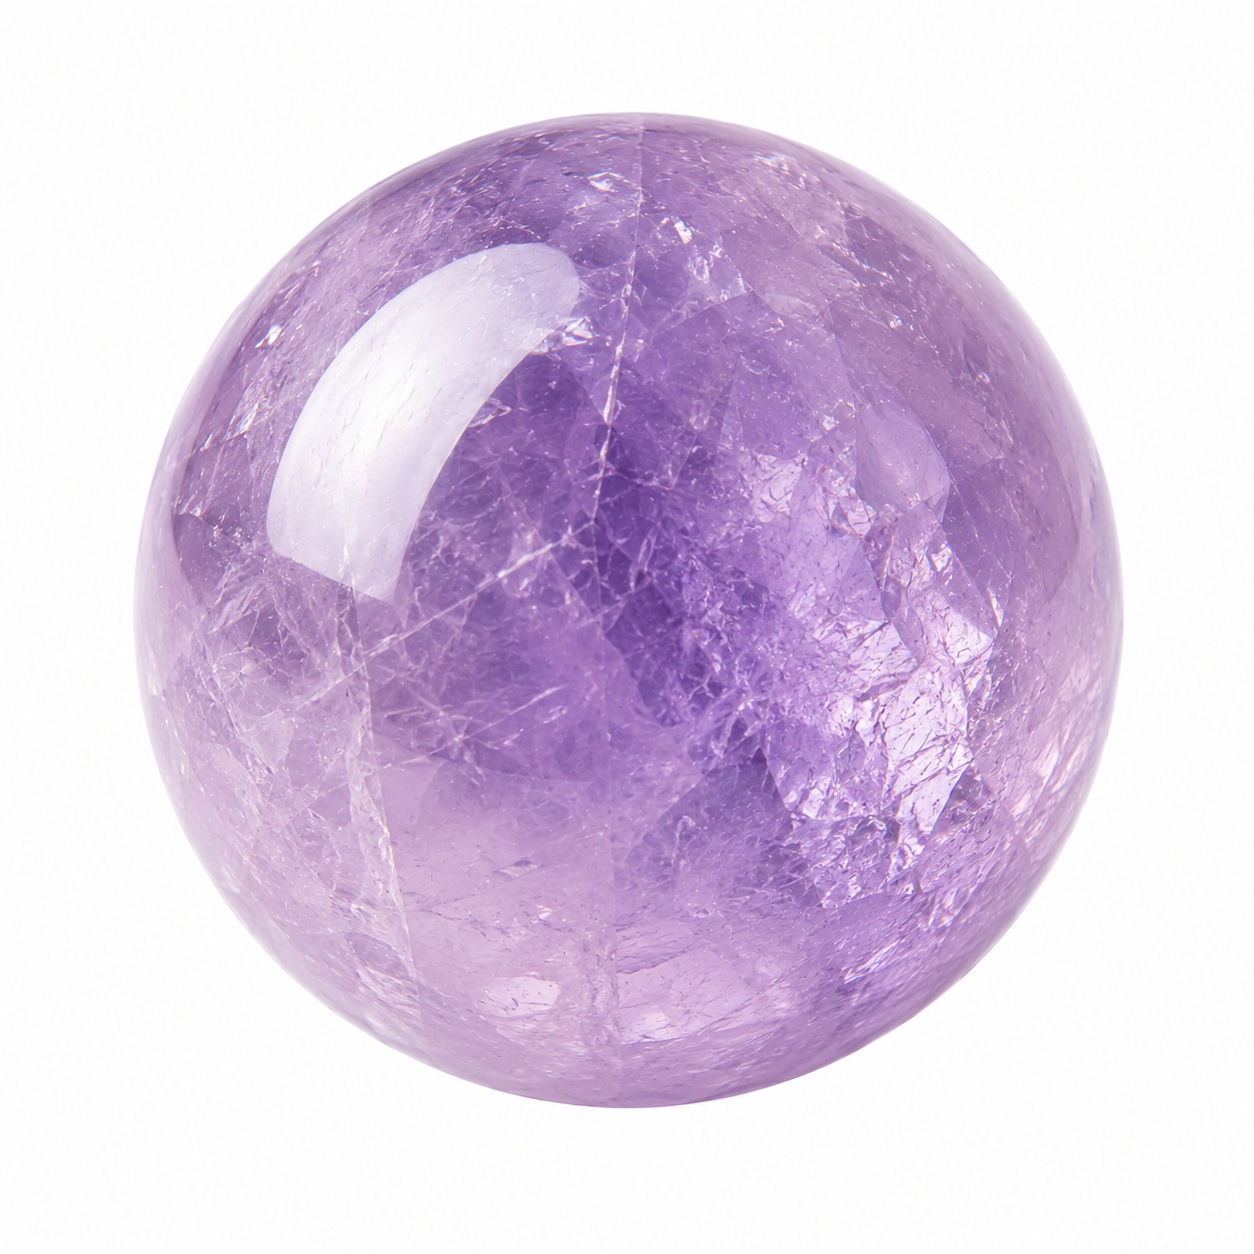
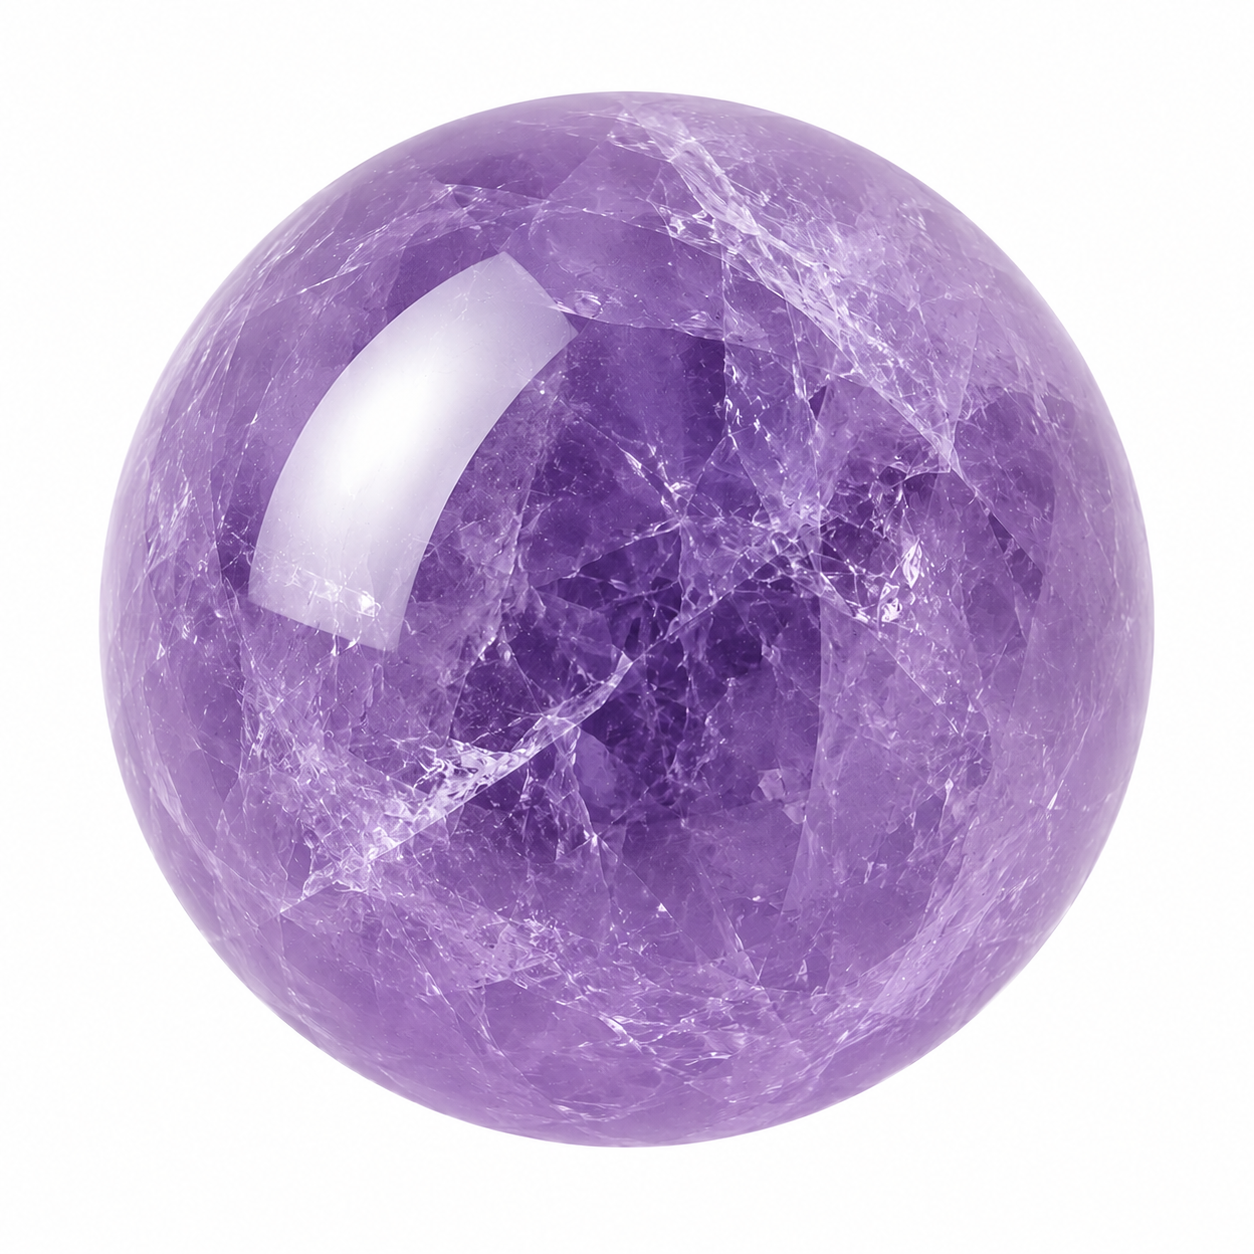
fix: promote approved UAT Step 2 Step 3 catalog parity

diff --git a/index.css b/index.css
@@ -71,24 +71,52 @@
   );
 }
 
-/* Production mixed-size promotion: UI-only overrides. */
-#stepView3.step-view { animation:none; opacity:1; transform:none; filter:none; isolation:auto; }
-#stepView3 .canvas-card { position:sticky; top:0; z-index:20; isolation:auto; pointer-events:auto; }
-.app-container.step3-preview-covered .app-header { pointer-events:none; }
-.app-container.step3-preview-covered #step3PreviewCard { background:rgb(252,251,255) !important; background-clip:border-box; opacity:1 !important; mix-blend-mode:normal; backdrop-filter:none; -webkit-backdrop-filter:none; filter:none; mask:none; -webkit-mask-image:none; clip-path:none; border-radius:0; }
-#stepView2 .bead-size-options { display:flex; flex-direction:column; gap:7px; }
-#stepView2 .bead-size-card[data-bead-size="mixed"] { order:1; }
-#stepView2 .bead-size-card[data-bead-size="10"] { order:2; }
-#stepView2 .bead-size-card[data-bead-size="6"] { order:3; }
-#stepView2 .bead-size-card[data-bead-size="4"] { order:4; }
-#stepView2 .bead-size-card-mixed { border-color:rgba(216,169,59,.38); background:linear-gradient(135deg,#fffdf8,#fff 68%,#fbf6ea); }
-#stepView2 .bead-size-mixed-recommendation { position:absolute; top:5px; right:5px; padding:2px 6px; border-radius:999px; color:#a97817; font-size:9px; font-weight:800; background:rgba(255,252,241,.92); }
-#stepView3 .mixed-size-selector-bar { display:grid; grid-template-columns:minmax(72px,.85fr) minmax(0,2.15fr); min-height:34px; margin:0 0 3px; padding:3px 7px 3px 10px; border:0; border-radius:9px; background:rgba(239,233,248,.72); gap:7px; }
-#stepView3 .catalog-type-filter + .mixed-size-selector-bar { margin-top:-5px; }
-#stepView3 .mixed-size-selector-bar[hidden] { display:none !important; }
-#stepView3 .mixed-toggles { display:grid; grid-template-columns:repeat(3,minmax(0,1fr)); gap:4px; }
-#stepView3 .mixed-toggle-btn { min-height:25px; border:0; border-radius:6px; background:rgba(255,255,255,.72); }
-#stepView3 .mixed-toggle-btn.active { background:#7962a8; color:var(--color-white); }
+/* Owner-approved UAT Step 2/Step 3 parity. */
+#stepView3.step-view { animation: none; opacity: 1; transform: none; filter: none; isolation: auto; }
+#stepView3.step-view.active { height: auto; min-height: 100%; }
+#stepView3 .canvas-card { position: sticky; top: 0; z-index: 20; isolation: auto; pointer-events: auto; }
+.app-container.step3-preview-covered .app-header { pointer-events: none; }
+.app-container.step3-preview-covered #step3PreviewCard { background: rgb(252, 251, 255) !important; background-clip: border-box; opacity: 1 !important; mix-blend-mode: normal; backdrop-filter: none; -webkit-backdrop-filter: none; filter: none; mask: none; -webkit-mask-image: none; clip-path: none; border-radius: 0; }
+
+#stepView2 .bead-size-options { display: flex; flex-direction: column; gap: 7px; padding-block: 7px; }
+#stepView2 .bead-size-card, #stepView2 .bead-size-card-recommended { min-height: 84px; padding: 8px 10px; border-color: rgba(181, 169, 219, 0.24); background: var(--color-white); box-shadow: 0 6px 16px rgba(111, 85, 148, 0.08); }
+#stepView2 .bead-size-card[data-bead-size="mixed"] { order: 1; }
+#stepView2 .bead-size-card[data-bead-size="10"] { order: 2; }
+#stepView2 .bead-size-card[data-bead-size="6"] { order: 3; }
+#stepView2 .bead-size-card[data-bead-size="4"] { order: 4; }
+#stepView2 .bead-size-card.active, #stepView2 .bead-size-card-recommended.active { background: linear-gradient(180deg, rgba(255, 255, 255, 1), rgba(251, 248, 255, 0.98)); border-color: rgba(139, 0, 0, 0.18); box-shadow: 0 8px 18px rgba(181, 169, 219, 0.1); }
+#stepView2 .bead-size-content, #stepView2 .bead-size-card-recommended .bead-size-content { grid-template-columns: 18px minmax(0, 1fr) 76px; min-height: 68px; gap: 8px; }
+#stepView2 .bead-size-copy { grid-template-columns: 52px minmax(0, 1fr); column-gap: 10px; }
+#stepView2 .bead-size-preview { min-width: 52px; }
+#stepView2 .bead-size-preview-mixed { justify-content: flex-start; gap: 2px; padding-top: 1px; }
+#stepView2 .bead-size-preview-mixed .bead-preview-circle-sm { width: 11px; height: 11px; }
+#stepView2 .bead-size-preview-mixed .bead-preview-circle-md { width: 15px; height: 15px; }
+#stepView2 .bead-size-preview-mixed .bead-preview-circle-lg { width: 19px; height: 19px; }
+#stepView2 .bead-size-mixed-recommendation { position: absolute; z-index: 2; top: 5px; right: 5px; display: inline-flex; align-items: center; gap: 3px; min-height: 18px; padding: 2px 6px; border: 1px solid rgba(216, 169, 59, 0.34); border-radius: 999px; background: rgba(255, 252, 241, 0.92); color: #a97817; font-size: 9px; font-weight: 800; line-height: 1; box-shadow: 0 2px 7px rgba(154, 111, 22, 0.12); }
+#stepView2 .bead-size-hand-panel, #stepView2 .bead-size-support-banner, #stepView2 .bead-size-popular-badge, #stepView2 .bead-size-featured-crown, #stepView2 .bead-size-recommendation { display: none; }
+#stepView2 .bead-size-hand-panel, #stepView2 .bead-size-card-recommended .bead-size-hand-panel { display: flex; height: 68px; border-radius: 13px; background: linear-gradient(145deg, #f7f0fb, #fff8fc); border-color: rgba(181, 169, 219, 0.18); box-shadow: none; }
+#stepView2 .bead-size-label, #stepView2 .bead-size-card-recommended .bead-size-label { font-size: 21px; color: var(--color-navy-dark); }
+#stepView2 .bead-size-card.active .bead-size-label, #stepView2 .bead-size-card-recommended.active .bead-size-label { color: var(--color-velvet-red); }
+#stepView2 .bead-size-details h4, #stepView2 .bead-size-card-recommended .bead-size-details h4 { margin-top: 2px; color: var(--color-navy-dark); font-size: 11px; line-height: 1.25; }
+
+#stepView3 .mixed-size-selector-bar { display: grid; grid-template-columns: minmax(72px, 0.85fr) minmax(0, 2.15fr); min-height: 34px; margin: 0 0 3px; padding: 3px 7px 3px 10px; border: 0; border-radius: 9px; box-shadow: none; background: rgba(239, 233, 248, 0.72); gap: 7px; }
+#stepView3 .catalog-type-filter + .mixed-size-selector-bar { margin-top: -5px; }
+#stepView3 .mixed-size-selector-bar[hidden] { display: none !important; }
+#stepView3 .mixed-label { font-size: 11px; font-weight: 700; line-height: 1; white-space: nowrap; }
+#stepView3 .mixed-toggles { display: grid; grid-template-columns: repeat(3, minmax(0, 1fr)); gap: 4px; width: 100%; }
+#stepView3 .mixed-toggle-btn { min-width: 0; min-height: 25px; padding: 3px 6px; border: 0; border-radius: 6px; background: rgba(255, 255, 255, 0.72); color: #67537b; font-size: 12px; line-height: 1; }
+#stepView3 .mixed-toggle-btn.active { background: #7962a8; border-color: transparent; color: var(--color-white); box-shadow: 0 2px 5px rgba(91, 62, 166, 0.18); }
+
+@media (max-width: 360px) {
+  #stepView2 .bead-size-options { gap: 6px; }
+  #stepView2 .bead-size-card, #stepView2 .bead-size-card-recommended { min-height: 80px; padding: 7px 8px; }
+  #stepView2 .bead-size-content, #stepView2 .bead-size-card-recommended .bead-size-content { grid-template-columns: 17px minmax(0, 1fr) 70px; min-height: 64px; gap: 7px; }
+  #stepView2 .bead-size-copy { grid-template-columns: 48px minmax(0, 1fr); column-gap: 8px; }
+  #stepView2 .bead-size-preview { min-width: 48px; }
+  #stepView2 .bead-size-hand-panel, #stepView2 .bead-size-card-recommended .bead-size-hand-panel { height: 64px; }
+  #stepView3 .mixed-size-selector-bar { grid-template-columns: minmax(66px, 0.85fr) minmax(0, 2.15fr); padding: 3px 6px; gap: 5px; }
+  #stepView3 .mixed-toggle-btn { padding-inline: 4px; }
+}
 
 /* Reset & Base Rules */
 * {

diff --git a/app.js b/app.js
@@ -3650,6 +3650,7 @@ async function renderStepViews() {
   }
 
   configureFooterNavigation();
+  syncStep3StickyLayer();
 }
 
 // Navigate to step
@@ -5926,6 +5927,8 @@ function renderSpacerOptions() {
 // 8. Step 3: Interactive Canvas & Catalog
 // ==========================================
 function setupDesignerEvents() {
+  setupStep3StickyLayer();
+
   // Reset Button
   DOM.btnResetBracelet.addEventListener('click', async () => {
     if (State.selectedStones.length > 0 || State.selectedCharmIds.length > 0) {
@@ -5970,6 +5973,34 @@ function setupDesignerEvents() {
   });
 
   setupStep3CategoryHintDismissEvents();
+}
+
+// Keep the approved native sticky preview above the header only while it has
+// reached the Step 3 scrollport edge. This changes hit testing, not geometry.
+function setupStep3StickyLayer() {
+  if (!DOM.appContent || DOM.appContent.dataset.step3StickyLayerReady === 'true') return;
+  DOM.appContent.dataset.step3StickyLayerReady = 'true';
+
+  let framePending = false;
+  DOM.appContent.addEventListener('scroll', () => {
+    if (framePending) return;
+    framePending = true;
+    window.requestAnimationFrame(() => {
+      framePending = false;
+      syncStep3StickyLayer();
+    });
+  }, { passive: true });
+}
+
+function syncStep3StickyLayer() {
+  if (!DOM.appContainer || !DOM.appContent || !DOM.step3PreviewCard) return;
+  if (State.currentStep !== 3) {
+    DOM.appContainer.classList.remove('step3-preview-covered');
+    return;
+  }
+  const scrollportTop = DOM.appContent.getBoundingClientRect().top;
+  const previewTop = DOM.step3PreviewCard.getBoundingClientRect().top;
+  DOM.appContainer.classList.toggle('step3-preview-covered', previewTop <= scrollportTop + 1);
 }
 
 function syncMixedSizeSelector() {

diff --git a/index.html b/index.html
@@ -204,7 +204,7 @@
             <div class="bead-size-content"><div class="bead-size-radio-col"><div class="radio-check" aria-hidden="true"></div></div><div class="bead-size-copy"><div class="bead-size-preview bead-size-preview-mixed" aria-hidden="true"><div class="bead-preview-circle bead-preview-circle-sm"></div><div class="bead-preview-circle bead-preview-circle-md"></div><div class="bead-preview-circle bead-preview-circle-lg"></div></div><div class="bead-size-details"><span class="bead-size-label">คละไซส์</span><h4>สนุก มีมิติ</h4></div></div><div class="bead-size-hand-panel"><img class="bead-size-hand-image" src="/assets/hand/hand_06.png" alt="Mixed size bracelet on hand"><span class="bead-size-mixed-recommendation" aria-hidden="true">★ แนะนำ</span></div></div>
           </div>
           <!-- Card: 10 mm -->
-          <div class="bead-size-card bead-size-card-recommended" data-bead-size="10" aria-label="10mm แนะนำ คนเลือกมากที่สุด">
+          <div class="bead-size-card" data-bead-size="10" aria-label="10mm">
             <div class="bead-size-content">
               <div class="bead-size-radio-col">
                 <div class="radio-check" aria-hidden="true"></div>
